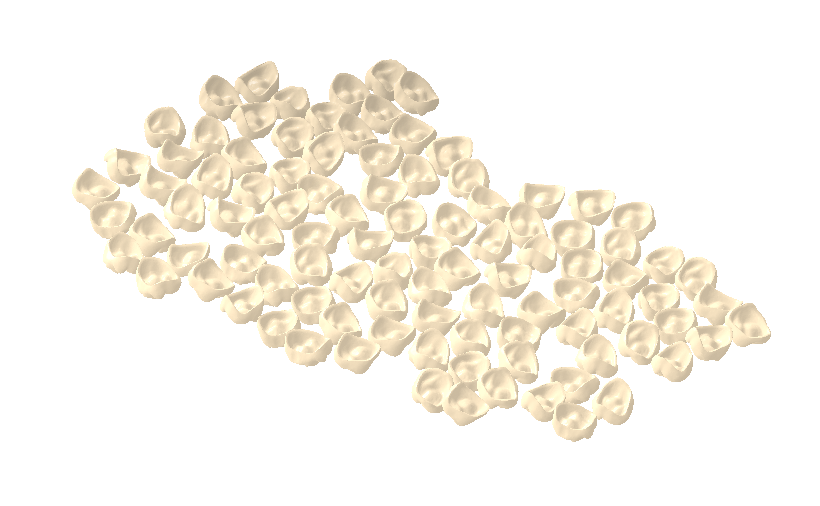
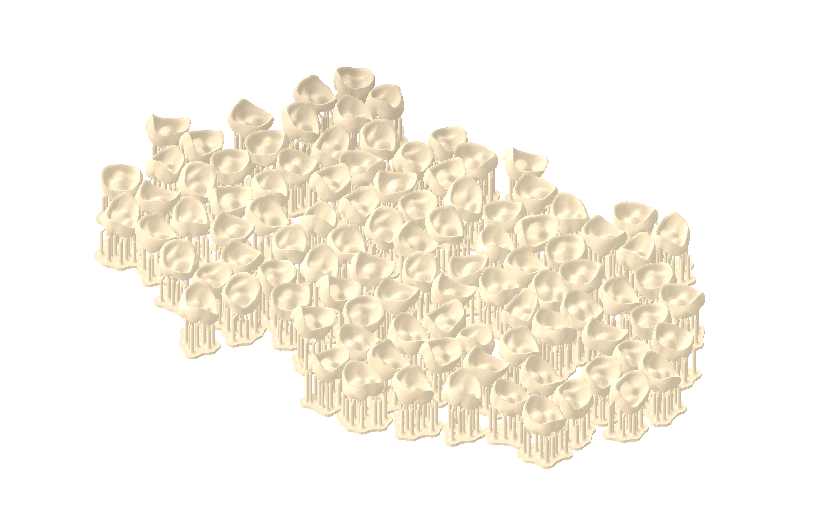
Auto support

Changed region(s): [[0.0915, 0.1186, 0.9451, 0.8893]]

diff --git a/main.py b/main.py
@@ -57,6 +57,16 @@ def hello_server():
             )
         )
 
+        # Auto Support
+        preform.api.auto_support(
+            scene_id=scene.id,
+            auto_support_request=models.AutoSupportRequest(
+                density=0.85,
+                touchpoint_size_mm=0.55,
+                raft_type="MINI_RAFT"
+            )
+        )
+
         # Screenshot workspace
         preform.api.save_screenshot(
             scene_id = scene.id,
